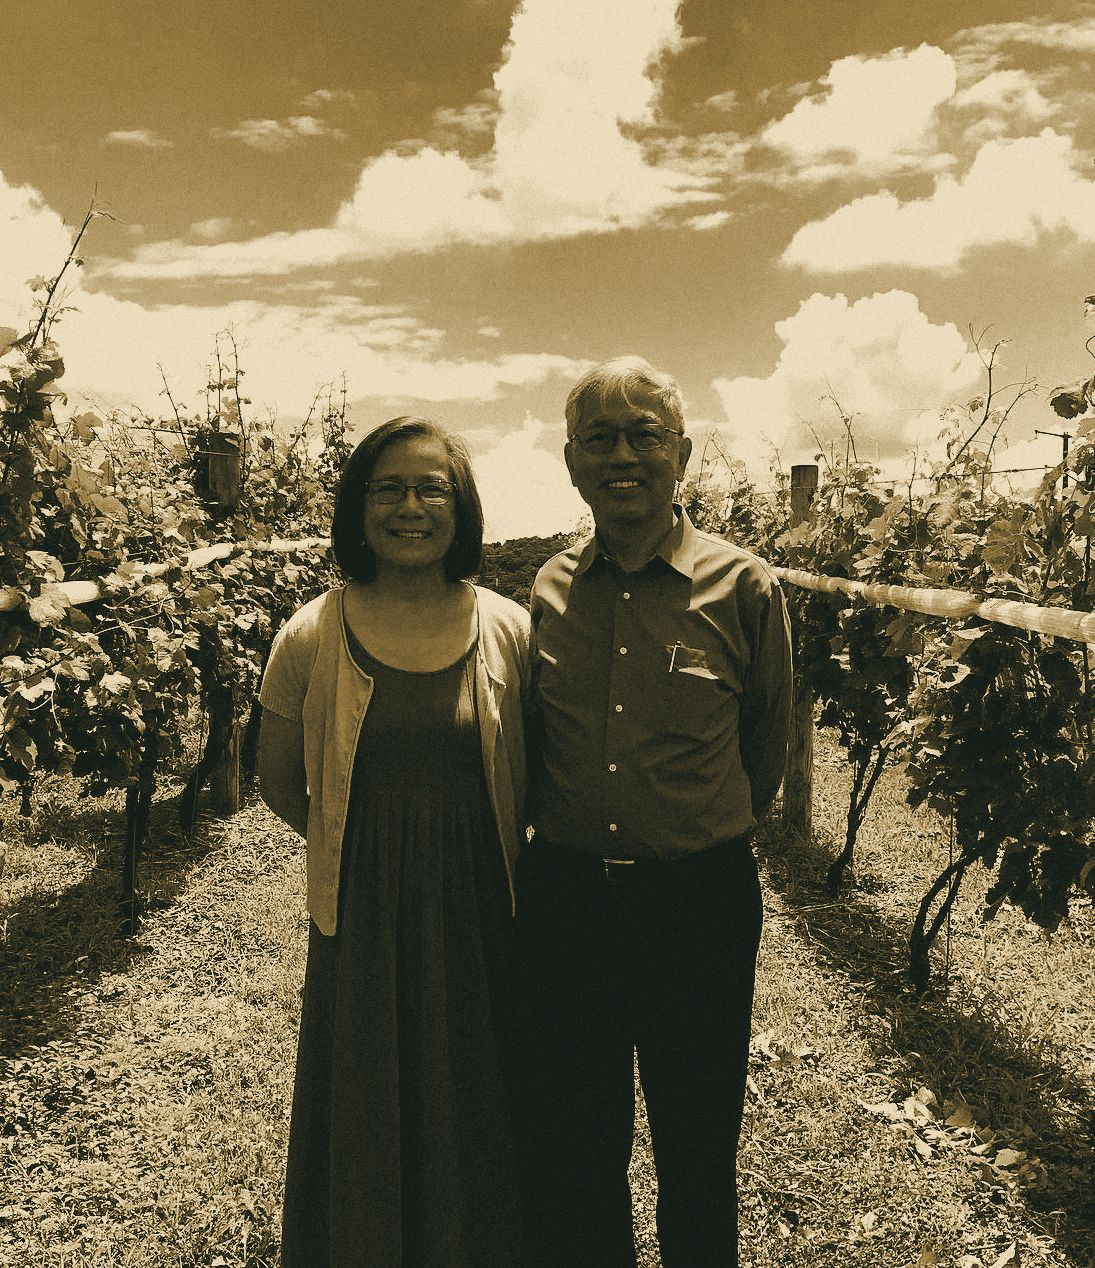
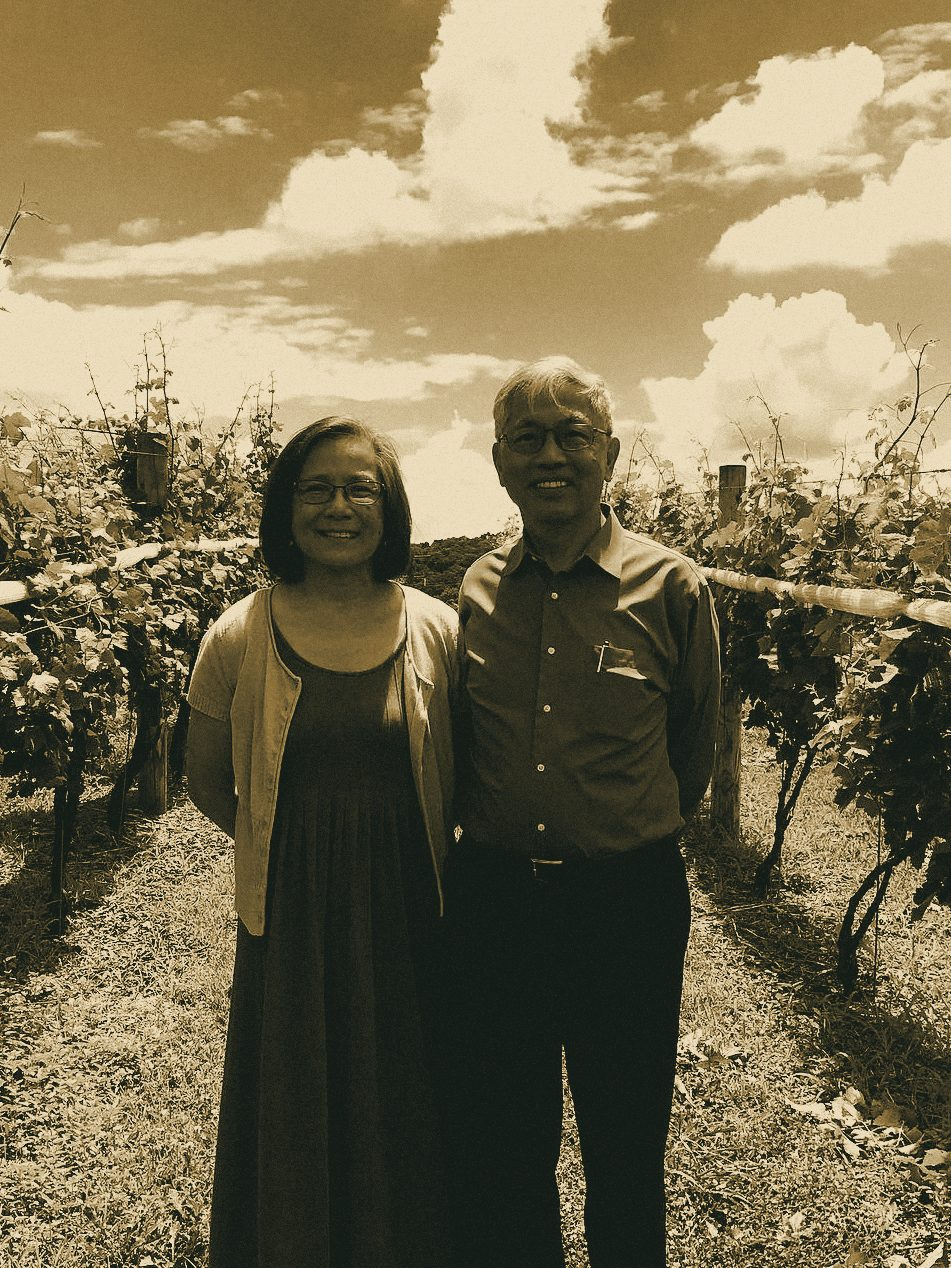
Imagery from Instagram: vineyard, harvest, seasons, sunset
Replace weaker phone shots and stock-looking barrels with the
vineyard's own photos; sharper source for the founders duotone.

Claude-Session: https://claude.ai/code/session_01Ft9Xw3XfcpMXSndM1CTJUX

diff --git a/public/index.html b/public/index.html
@@ -406,8 +406,8 @@ html{scroll-behavior:smooth}
   <div class="band paper">
     <div class="wrap split flip">
       <figure>
-        <img src="img/harvest.jpg" alt="Ripening grapes on the vine">
-        <figcaption>Fruit ripening on the vine before harvest</figcaption>
+        <img src="img/ig-white-cluster.jpg" alt="A cluster of white grapes ripening in the sun">
+        <figcaption>White grapes ripening before harvest</figcaption>
       </figure>
       <div class="copy">
         <p class="eyebrow">Our wine</p>
@@ -459,8 +459,8 @@ html{scroll-behavior:smooth}
   <div class="band ink">
     <div class="wrap split flip">
       <figure>
-        <img class="plate" src="img/farmhouse-duo.jpg" alt="The farmhouse and production building lit at dusk">
-        <figcaption style="color:var(--muted-dk)">Our 1879 farmhouse at dusk</figcaption>
+        <img src="img/ig-sunset.jpg" alt="Sunset over the vineyard and the hills beyond">
+        <figcaption style="color:var(--muted-dk)">Sunset over the vineyard</figcaption>
       </figure>
       <div class="copy">
         <p class="eyebrow">Visit</p>
@@ -475,7 +475,7 @@ html{scroll-behavior:smooth}
 <!-- ============ CLUB ============ -->
 <section data-page="club">
   <div class="pagehead">
-    <img src="img/rows.jpg" alt="">
+    <img src="img/ig-rows-clouds.jpg" alt="">
     <div class="wrap">
             <h1>The Wine Club</h1>
       <p class="lede">Our wines are made in small lots, and members get them first. Bottles every month, member prices on everything, and invitations to the vineyard.</p>
@@ -553,7 +553,7 @@ html{scroll-behavior:smooth}
 <!-- ============ WINES ============ -->
 <section data-page="wines">
   <div class="pagehead">
-    <img src="img/barrels.jpg" alt="">
+    <img src="img/ig-harvest-bins.jpg" alt="">
     <div class="wrap">
       <h1>Wines</h1>
       <p class="lede">Estate grown. Hand-picked. Schuylkill County terroir in every bottle.</p>
@@ -620,11 +620,11 @@ html{scroll-behavior:smooth}
     <div class="wrap">
       <div class="head"><p class="eyebrow">The vineyard</p><h2>Ninety acres between the Blue Mountain and the Schuylkill River</h2></div>
       <div class="gallery">
-        <img src="img/aerial-rows.jpg" alt="Overhead view of vine rows">
-        <img src="img/grapes.jpg" alt="A cluster of dark grapes held in hand">
-        <img src="img/winter.jpg" alt="Vines in snow">
-        <img src="img/tending.jpg" alt="Tending the vines in summer">
-        <img src="img/harvest.jpg" alt="Grapes ripening on the vine">
+        <img src="img/ig-rows-clouds.jpg" alt="Vine rows under a summer sky">
+        <img src="img/ig-budbreak.jpg" alt="New spring growth on the vine">
+        <img src="img/ig-veraison.jpg" alt="Red grapes changing color on the vine">
+        <img src="img/ig-luo-harvest.jpg" alt="Dr. Luo harvesting grapes into a bucket">
+        <img src="img/ig-snow.jpg" alt="The vineyard under snow">
       </div>
     </div>
   </div>
